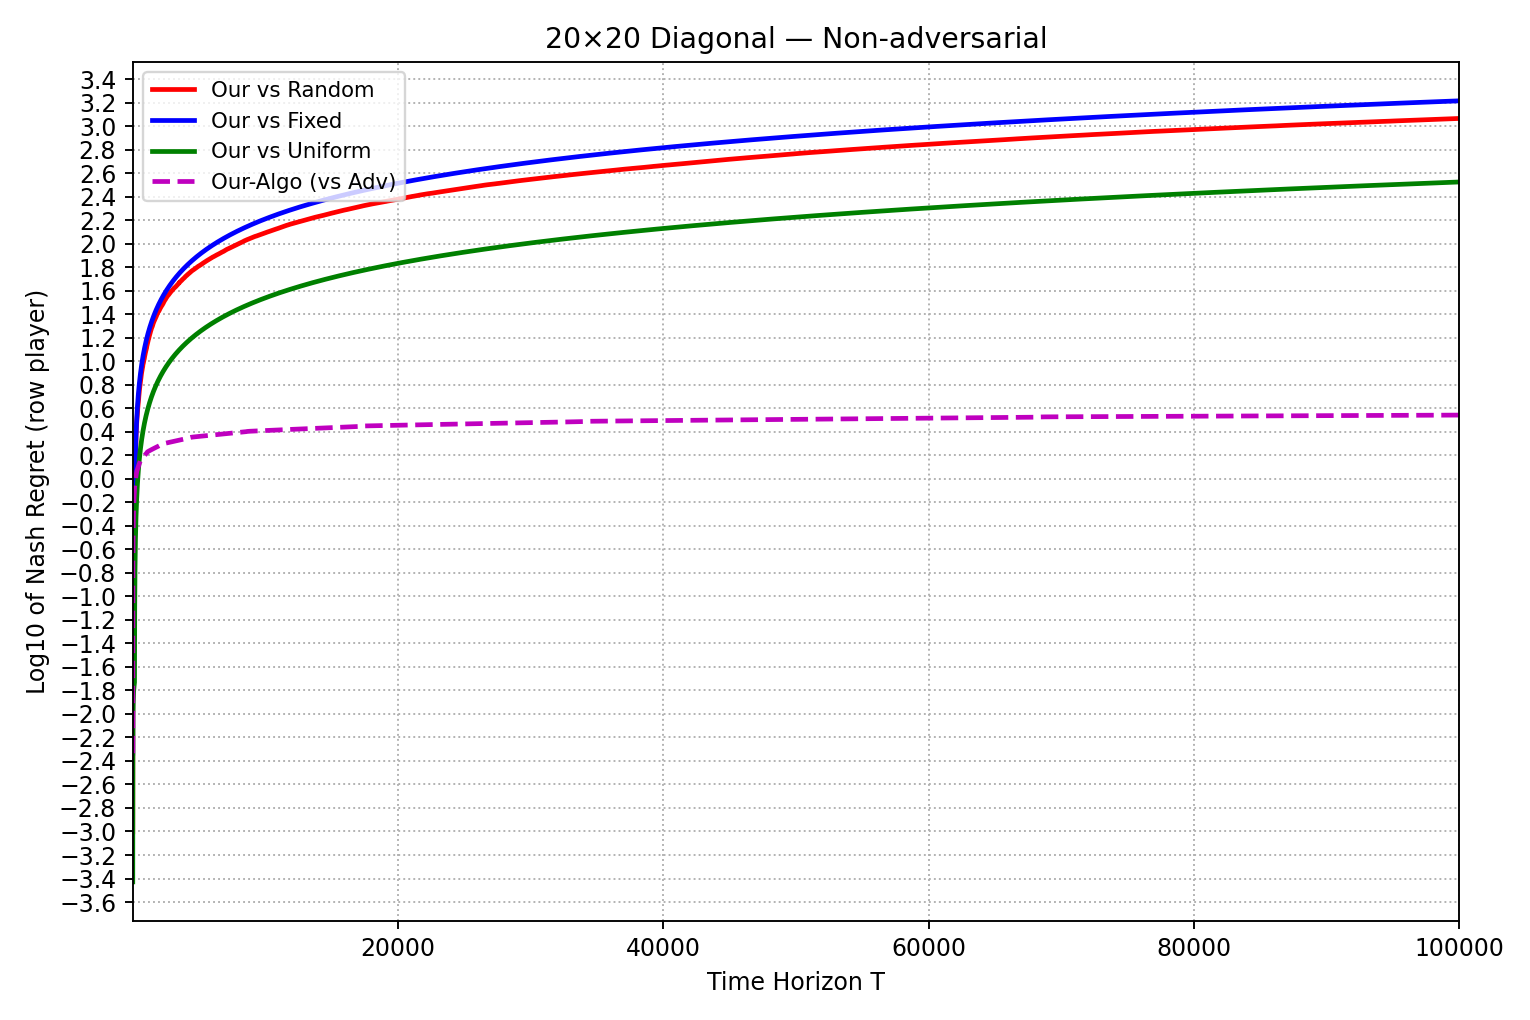
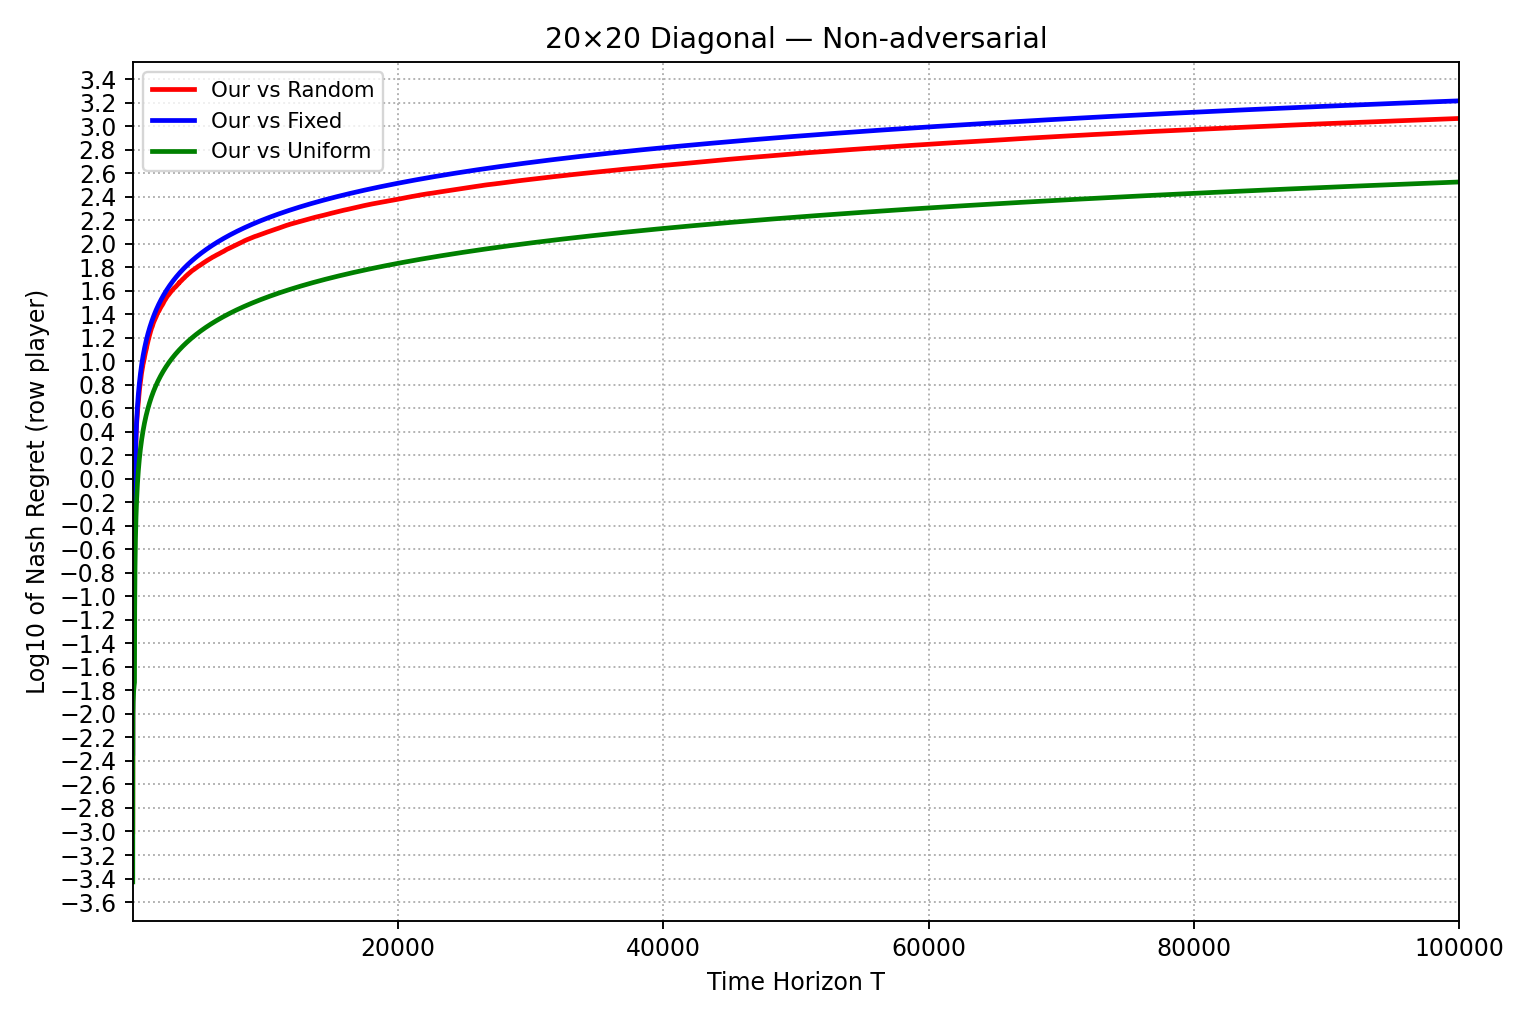
remove baseline

Changed region(s): [[0.1536, 0.3951, 0.9523, 0.4255], [0.0922, 0.0608, 0.2765, 0.2127], [0.0922, 0.4255, 0.1229, 0.4559]]

diff --git a/Bandit_feedback/section4_bilateral.py b/Bandit_feedback/section4_bilateral.py
@@ -498,18 +498,18 @@ def run_extension_non_adversarial(config: RunConfig) -> None:
         ax.plot(curve_axis, log_curve, label=label, color=color, linewidth=2)
     
     # Add adversaries from paper for the reference
-    colors = ["c", "m", "y"]
-    for adv in [1, 2, 3]:
-        mean_curve = np.zeros(T_max, dtype=float)
-        for r in range(config.n_runs):
-            seed_r = config.seed + 10007 * r
-            curve = run_adversarial_single_curve("OurAlg", seed_r, T_max, adv)
-            mean_curve += curve
-        mean_curve /= max(1, config.n_runs)
+    # colors = ["c", "m", "y"]
+    # for adv in [1, 2, 3]:
+    #     mean_curve = np.zeros(T_max, dtype=float)
+    #     for r in range(config.n_runs):
+    #         seed_r = config.seed + 10007 * r
+    #         curve = run_adversarial_single_curve("OurAlg", seed_r, T_max, adv)
+    #         mean_curve += curve
+    #     mean_curve /= max(1, config.n_runs)
 
-        log_curve = np.log10(np.maximum(mean_curve, 1e-12))
-        ax.plot(curve_axis, log_curve, label=f"Adv {adv}", color=colors[adv-1], 
-                linestyle="--", linewidth=2)
+    #     log_curve = np.log10(np.maximum(mean_curve, 1e-12))
+    #     ax.plot(curve_axis, log_curve, label=f"Adv {adv}", color=colors[adv-1], 
+    #             linestyle="--", linewidth=2)
 
     ax.set_xlabel("Time Horizon T")
     ax.set_ylabel("log10(Nash Regret)")

diff --git a/Full_information_feedback/section3_bilateral.py b/Full_information_feedback/section3_bilateral.py
@@ -688,13 +688,13 @@ def run_extension_non_adversarial(config: RunConfig) -> None:
         ax2.plot(curve_axis, log_curve, label=label, color=color, linestyle="-", linewidth=2)
 
     # Normal run of our algo (from paper) vs adversary for comparison
-    mean_curve = np.zeros(T_max, dtype=float)
-    for r in range(config.n_runs):
-        seed = config.seed + 10007 * r
-        mean_curve += run_official_curve(seed, T_max, config.n_actions)
-    mean_curve /= max(1, config.n_runs)
-    log_curve = np.log10(np.maximum(mean_curve, 1e-12))
-    ax2.plot(curve_axis, log_curve, label="Our-Algo (vs Adv)", color="m", linestyle="--", linewidth=2)
+    # mean_curve = np.zeros(T_max, dtype=float)
+    # for r in range(config.n_runs):
+    #     seed = config.seed + 10007 * r
+    #     mean_curve += run_official_curve(seed, T_max, config.n_actions)
+    # mean_curve /= max(1, config.n_runs)
+    # log_curve = np.log10(np.maximum(mean_curve, 1e-12))
+    # ax2.plot(curve_axis, log_curve, label="Our-Algo (vs Adv)", color="m", linestyle="--", linewidth=2)
 
     ax2.set_xscale("linear")
     ax2.set_xlabel("Time Horizon T")